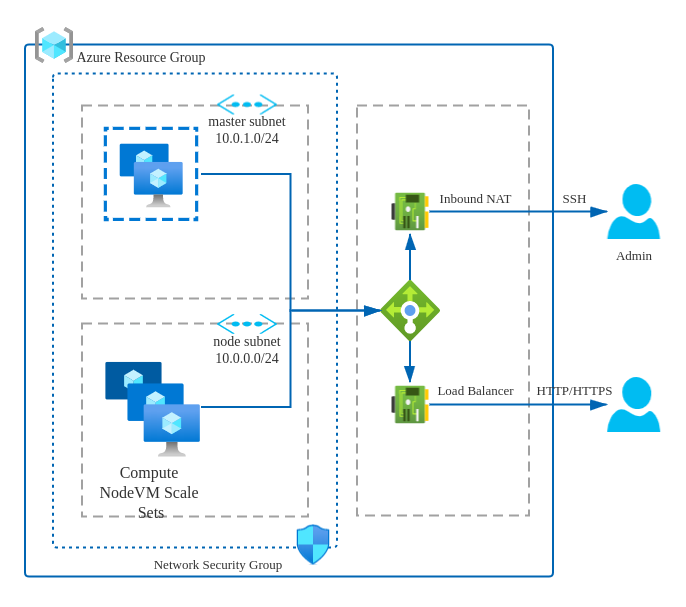
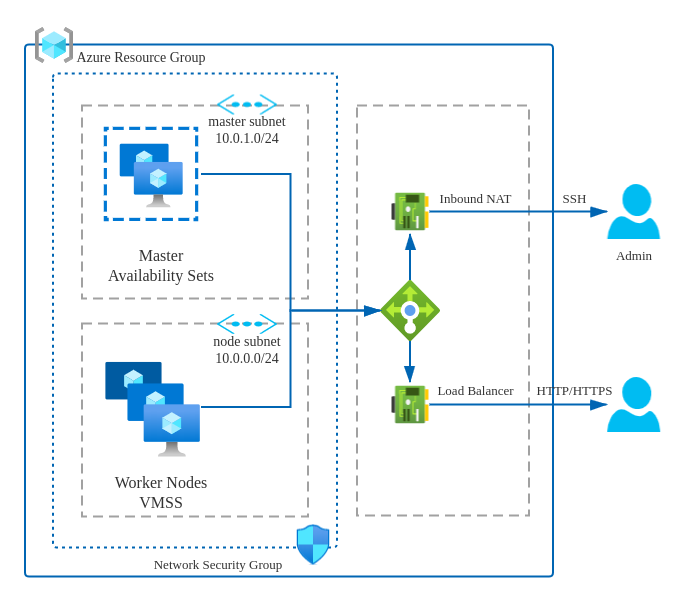
docs: deploy kubesphere on azure vm

Changed region(s): [[0.1531, 0.771, 0.3061, 0.86], [0.1531, 0.4152, 0.3061, 0.4745]]

diff --git a/content/en/docs/installing-on-linux/public-cloud/install-ks-on-azure-vms.md b/content/en/docs/installing-on-linux/public-cloud/install-ks-on-azure-vms.md
@@ -1,0 +1,177 @@
+---
+title: "Deploy KubeSphere on Azure VM Instance"
+keywords: "Kubesphere, Installation, HA, high availability, load balancer, Azure"
+description: "The tutorial is for installing a high-availability cluster on Azure."
+---
+
+## Before you begin
+
+Technically, you can either install, administer, and manage Kubernetes yourself or go for a managed Kubernetes solution. If you are looking for a way to take advantage of Kubernetes with a hands-off approach, a fully managed platform solution is what you’re looking for, please see [Deploy KubeSphere on AKS](../../../installing-on-kubernetes/hosted-kubernetes/install-ks-on-aks) for more details. But if you want a bit more control over your configuration and setup a Highly Available clusters on Azure, this instruction will help you to setup a production-ready Kubernetes and KubeSphere.
+
+## Introduction
+
+In this tutorial, we will use two key features of Azure virtual machines (VMs): 
+
+- Virtual Machine Scale Sets: Azure VMSS let you create and manage a group of load balanced VMs. The number of VM instances can automatically increase or decrease in response to demand or a defined schedule(Kubernates Autoscaler is available, but not covered in this tutorial, see [autoscaler](https://github.com/kubernetes/autoscaler/tree/master/cluster-autoscaler/cloudprovider/azure) for more details), Which perfect fits the Worker Nodes.
+- Availability sets: An availability set is a logical grouping of VMs within a datacenter that automatically distributed across fault domains. This approach limits the impact of potential physical hardware failures, network outages, or power interruptions. All the Master and ETCD VMs will be placed in an Availability sets to meet our High Availability goals.
+
+Besides those VMs, other resources like Load Balancer, Virtual Network and Network Security Group will be involved.
+
+## Prerequisites
+
+- You need an [Azure](https://portal.azure.com) account to create all the resources.
+- Basic knowledge of [Azure Resource Manager](https://docs.microsoft.com/en-us/azure/azure-resource-manager/templates/)(ARM) templates, which are files that define the Azure infrastructure and configuration.
+- Considering data persistence, for a production environment, we recommend you to prepare persistent storage and create a StorageClass in advance. For development and testing, you can use the integrated OpenEBS to provision LocalPV as the storage service directly.
+
+## Architecture
+
+Six machines of "Ubuntu 18.04" will be deployed in Azure Resources Group. Tree of them are grouped into an Availability sets, which will be used by Master and ETCD. Another tree VMs will be defined as a VMSS, Worker nodes will be run on it.
+
+![Architecture](/images/docs/aks/Azure-architecture.png)
+
+Those VMs will be attached to a LoadBalancer, there are two different rules are per-defined in the LB:
+
+- **Inbound NAT**: ssh port will be mapped for each machine, so we can easily manage VMs.
+- **Load Balancing**: http and https ports will be mapped to Node pools by default, we can add other ports on demand.
+
+| Service | Protocol | Rule | Backend Port | Frontend Port/Ports | Pools |
+|---|---|---|---|---|---|
+| ssh | TCP | Inbound NAT | 22 |50200, 50201,50202, 50100~50199| Master, Node |
+| apiserver | TCP | Load Balancing | 6443 | 6443 | Master |
+| ks-console | TCP | Load Balancing | 30880 | 30880 | Master |
+| http | TCP | Load Balancing | 80 | 80 | Node |
+| https | TCP | Load Balancing | 443 | 443 | Node |
+
+## Deploy HA Cluster Infrastructrue
+
+You don't have to create those resources one by one with Wizards. Following the best practice of **infrastructure as code** on Azure, All resources in the architecture are already defined as ARM templates.
+
+### Staring deploy with one click
+
+Click the *Deploy* button below, you will be redirected to Azure and asked to fill in deployment parameters.
+
+[![Deploy to Azure](https://raw.githubusercontent.com/Azure/azure-quickstart-templates/master/1-CONTRIBUTION-GUIDE/images/deploytoazure.svg?sanitize=true)](https://portal.azure.com/#create/Microsoft.Template/uri/https%3A%2F%2Fraw.githubusercontent.com%2FRolandMa1986%2Fazurek8s%2Fmaster%2Fazuredeploy.json) [![Visualize](https://raw.githubusercontent.com/Azure/azure-quickstart-templates/master/1-CONTRIBUTION-GUIDE/images/visualizebutton.svg?sanitize=true)](http://armviz.io/#/?load=https%3A%2F%2Fraw.githubusercontent.com%2FRolandMa1986%2Fazurek8s%2Fmaster%2Fazuredeploy.json)
+
+### Change template parameters
+
+Only a few parameter need to be changed.
+
+- Choose the *Create new* link under the Resource group and fill in a Name such as "KubeSphereVMRG".
+- Fill in the Admin Username.
+- Copy your public ssh key and fill in the Admin Key. Or create new one with *ssh-keygen*.
+
+> Password authentication is restriced in the Linux configuration, only SSH accept.
+
+Click the *Purchase* button in the bottom when you ready to continue.
+
+### Review Azure Resources in the Portal
+
+Once the deployment success, you can find all the resources you need in the KubeSphereVMRG resource group. Take your time and check them one by one if you are new to Azure. Then find the public IP of LB and private IP addresses of the VMs. You need them in the next step.
+
+![New Created Resources](/images/docs/aks/azure-vm-all-resources.png)
+
+## Deploy Kubernetes and Kubesphere
+
+For the following commands, you can execute them on your laptop or SSH to one of the Master VMs. There are files will be downloaded to local and disturbed to each VM during the installation. The installation will be much faster when you use **kk** in the Intranet than the Internet.
+
+```bash
+# copy your private ssh to master-0
+scp -P 50200  ~/.ssh/id_rsa kubesphere@40.81.5.xx:/home/kubesphere/.ssh/
+
+# ssh to the master-0
+ssh -i .ssh/id_rsa2  -p50200 kubesphere@40.81.5.xx
+```
+
+### Download KubeKey
+
+[Kubekey](https://github.com/kubesphere/kubekey) is the next-gen installer which is used for installing Kubernetes and KubeSphere v3.0.0 fastly, flexibly and easily.
+
+1. First, download it and generate a configuration file to customize the installation as follows.
+
+```
+curl -O -k https://kubernetes.pek3b.qingstor.com/tools/kubekey/kk
+chmod +x kk
+```
+
+2. Then create an example configuration file with default configurations. Here we use Kubernetes v1.17.9 as an example.
+
+```
+./kk create config --with-kubesphere v3.0.0 --with-kubernetes v1.17.9
+```
+
+### config-sample.yaml Example
+
+```yaml
+spec:
+  hosts:
+  - {name: master-0, address: 40.81.5.xx, port: 50200, internalAddress: 10.0.1.4, user: kubesphere, privateKeyPath: "~/.ssh/id_rsa"}
+  - {name: master-1, address: 40.81.5.xx, port: 50201, internalAddress: 10.0.1.5, user: kubesphere, privateKeyPath: "~/.ssh/id_rsa"}
+  - {name: master-2, address: 40.81.5.xx, port: 50202, internalAddress: 10.0.1.6, user: kubesphere, privateKeyPath: "~/.ssh/id_rsa"}
+  - {name: node000000, address: 40.81.5.xx, port: 50100, internalAddress: 10.0.0.4, user: kubesphere, privateKeyPath: "~/.ssh/id_rsa"}
+  - {name: node000001, address: 40.81.5.xx, port: 50101, internalAddress: 10.0.0.5, user: kubesphere, privateKeyPath: "~/.ssh/id_rsa"}
+  - {name: node000002, address: 40.81.5.xx, port: 50102, internalAddress: 10.0.0.6, user: kubesphere, privateKeyPath: "~/.ssh/id_rsa"}
+  roleGroups:
+    etcd:
+    - master-0
+    - master-1
+    - master-2
+    master:
+    - master-0
+    - master-1
+    - master-2
+    worker:
+    - node000000
+    - node000001
+    - node000002
+```
+For a complete configuration sample explanation, please see [this file](https://github.com/kubesphere/kubekey/blob/master/docs/config-example.md).
+
+### Configure the Load Balancer
+
+In addition to the node information, you need to provide the load balancer information in the same yaml file. For the IP address, you can find it in *Azure -> KubeSphereVMRG -> PublicLB*. Assume the IP address and listening port of the **load balancer** are `40.81.5.xx` and `6443` respectively, and you can refer to the following example.
+
+#### The configuration example in config-sample.yaml
+
+```yaml
+## Public LB config example
+## apiserver_loadbalancer_domain_name: "lb.kubesphere.local"
+  controlPlaneEndpoint:
+    domain: lb.kubesphere.local
+    address: "40.81.5.xx"
+    port: "6443"
+```
+
+> - Note we are using the public LB directly instead of an Internal LB due to the Azure [Load Balancer limits](https://docs.microsoft.com/en-us/azure/load-balancer/load-balancer-troubleshoot#cause-4-accessing-the-internal-load-balancer-frontend-from-the-participating-load-balancer-backend-pool-vm).
+
+### Persistent Storage Plugin Configuration
+
+See [Sorage Configuration](../storage-configuration) for details.
+
+### Configure the Network Plugin
+
+Azure Virtual Network doesn't support IPIP mode which used by [calico](https://docs.projectcalico.org/reference/public-cloud/azure#about-calico-on-azure). So let's change the network plugin to flannel.
+
+```yaml
+  network:
+    plugin: flannel
+    kubePodsCIDR: 10.233.64.0/18
+    kubeServiceCIDR: 10.233.0.0/18
+```
+
+### Start to Bootstrap a Cluster
+
+After you complete the configuration, you can execute the following command to start the installation:
+
+```
+./kk create cluster -f config-sample.yaml
+```
+
+## Add addtional Ports
+
+Since we are using self-hosted Kubernetes solutions on Azure, So the Load Balancer is not integrated with [Kubernetes Service](https://kubernetes.io/docs/concepts/services-networking/service/#loadbalancer). But you still can manually map the NodePod to the PublicLB. There are 2 steps required.
+
+1. Create a new Load Balance Rule in the Load Balancer.
+   ![Architecture](/images/docs/aks/azure-vm-loadbalancer-rule.png)
+2. Create an Inbound Security rule to allow Internet access in the Network Security Group.
+   ![Architecture](/images/docs/aks/azure-vm-firewall.png)
+
